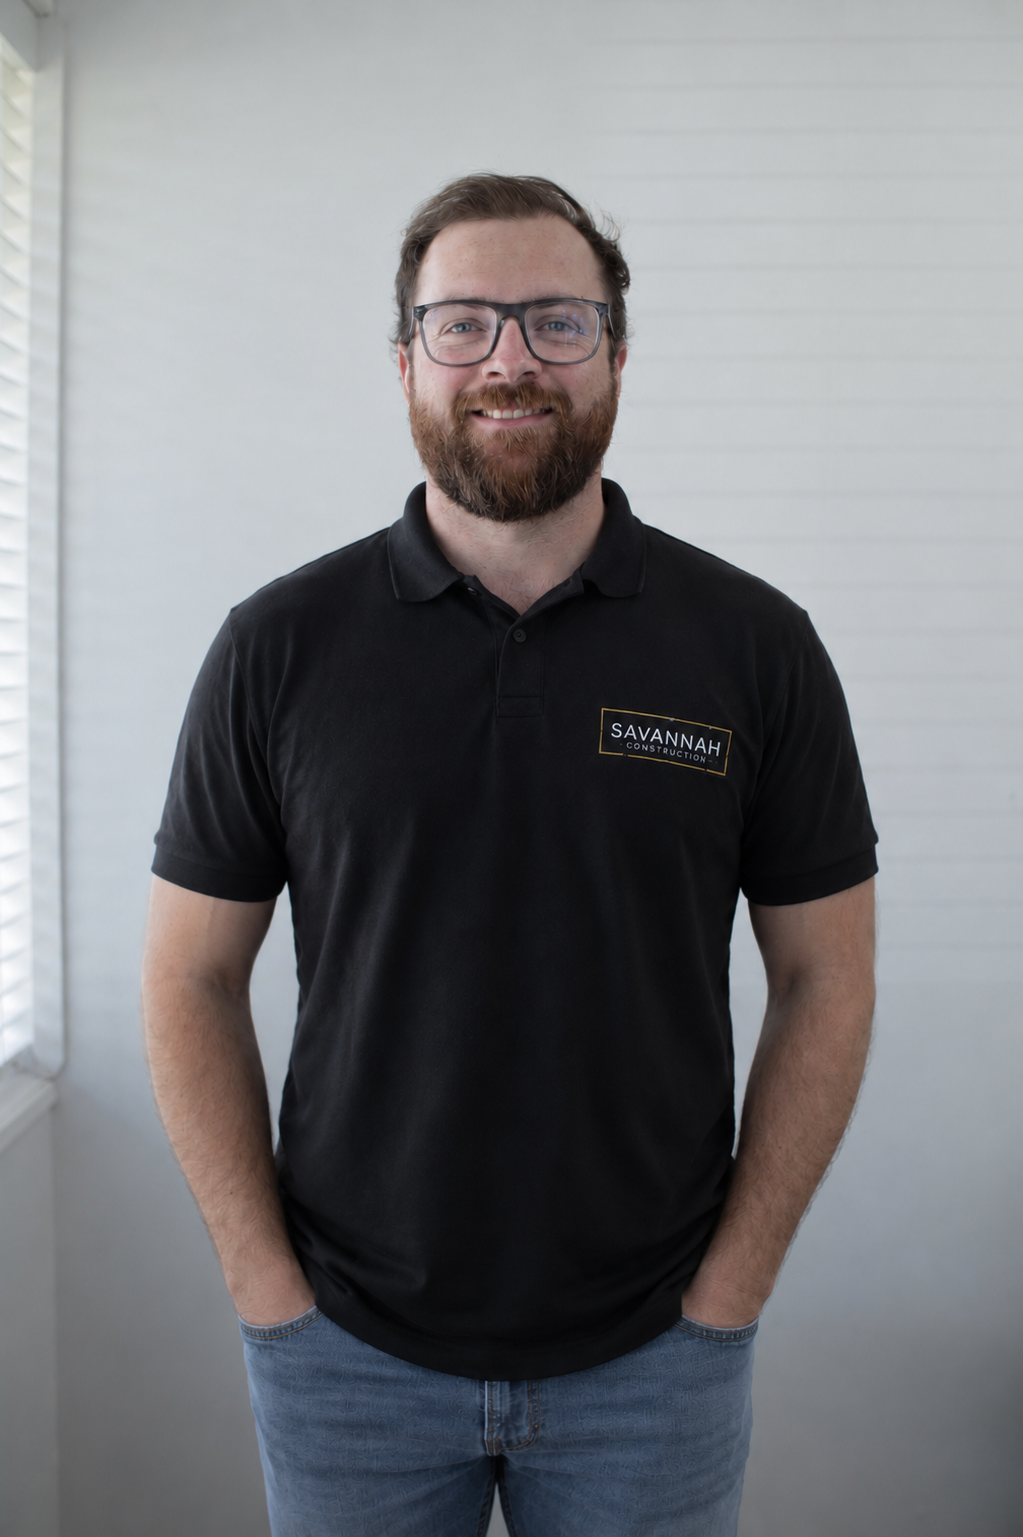
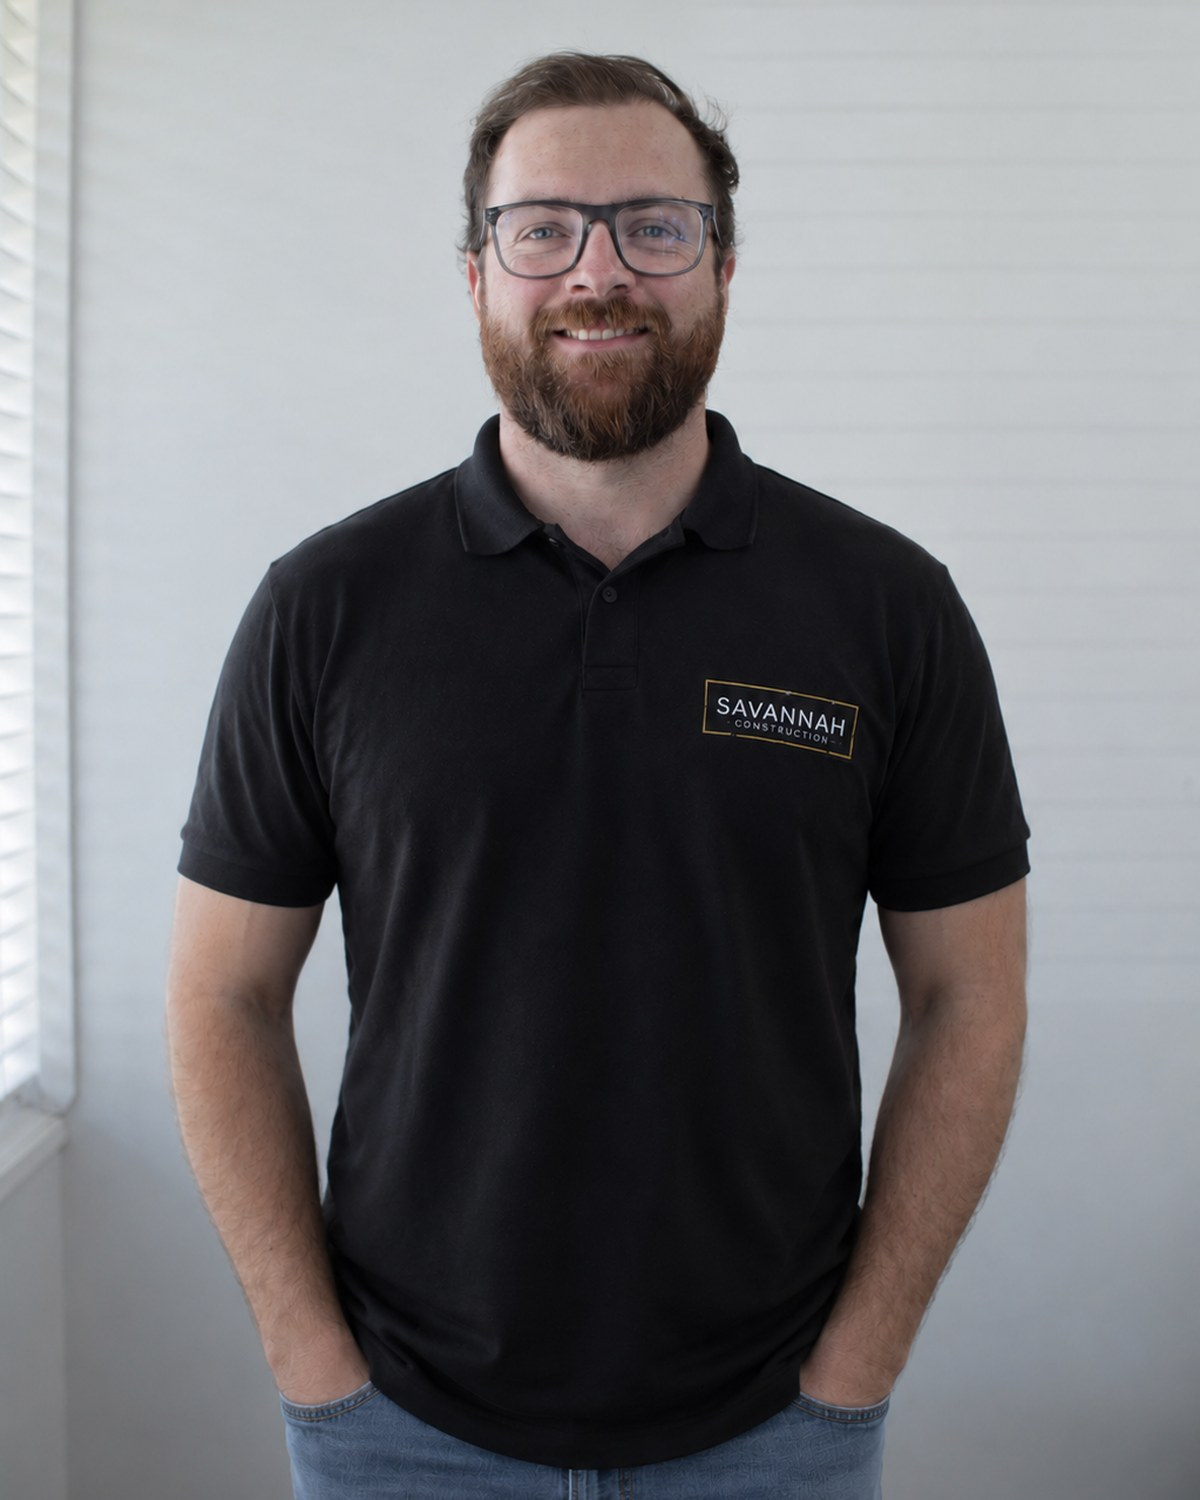
fixed assets (brad hotter)

diff --git a/css/style.css b/css/style.css
@@ -505,20 +505,20 @@ html[data-theme="dark"] .site-header { box-shadow: none; }
 }
 
 
-/* Mode-aware Savannah logo fix: the wordmark changes between black and white while the gold frame stays on-brand. */
+/* Mode-aware Savannah logo fix: one image element only. JS swaps the source, so duplicate logos cannot render. */
 .logo-stack {
   position: relative;
   display: block;
   width: 220px;
   height: 54px;
   flex: 0 0 auto;
+  overflow: hidden;
 }
 .brand .logo-stack {
   justify-self: start;
 }
 .theme-logo {
-  position: absolute;
-  inset: 0;
+  display: block;
   width: 100% !important;
   height: 100% !important;
   max-width: none !important;
@@ -526,20 +526,11 @@ html[data-theme="dark"] .site-header { box-shadow: none; }
   margin: 0 !important;
   object-fit: contain;
   object-position: left center;
-  opacity: 0;
-  transform: translateY(0);
-  transition: opacity .18s ease, transform .22s ease;
-}
-html[data-theme="light"] .theme-logo-light,
-html[data-theme="dark"] .theme-logo-dark {
   opacity: 1;
   transform: translateY(0);
+  transition: opacity .16s ease, transform .18s ease;
 }
-html[data-theme="light"] .theme-logo-dark {
-  opacity: 0;
-  transform: translateY(-4px);
-}
-html[data-theme="dark"] .theme-logo-light {
+.theme-logo.logo-source-swapping {
   opacity: 0;
   transform: translateY(4px);
 }

diff --git a/js/app.js b/js/app.js
@@ -10,10 +10,28 @@ if (navToggle && siteNav) {
 
 const root = document.documentElement;
 const themeToggle = document.querySelector('[data-theme-toggle]');
+
+const updateThemeLogos = (theme, animate = true) => {
+  const logoSrc = theme === 'dark' ? 'logoDark' : 'logoLight';
+  document.querySelectorAll('img[data-logo-light][data-logo-dark]').forEach((logo) => {
+    const nextSrc = logo.dataset[logoSrc];
+    if (!nextSrc || logo.getAttribute('src') === nextSrc) return;
+    if (!animate) {
+      logo.setAttribute('src', nextSrc);
+      return;
+    }
+    logo.classList.add('logo-source-swapping');
+    window.setTimeout(() => {
+      logo.setAttribute('src', nextSrc);
+      logo.classList.remove('logo-source-swapping');
+    }, 90);
+  });
+};
 const setTheme = (theme, persist = true) => {
   const safeTheme = theme === 'dark' ? 'dark' : 'light';
   root.classList.add('theme-switching');
   root.setAttribute('data-theme', safeTheme);
+  updateThemeLogos(safeTheme, persist);
   if (persist) {
     try { localStorage.setItem('savannah-theme', safeTheme); } catch (error) {}
   }

diff --git a/legacy-source/css/style.min.css b/legacy-source/css/style.min.css
@@ -1,13 +1,4 @@
-/*
- *	Resto by GetTemplates.co
- *	URL: https://gettemplates.co
- */
-@font-face {
-  font-family: 'Nasalization';
-  src: url('../Nasalization Rg.otf') format('opentype');
-  font-weight: 400;
-  font-style: normal;
-  font-display: swap; }
+/* Legacy source retained for reference. Missing third-party font reference removed. */
 
 html {
   overflow-x: hidden; }

diff --git a/404.html b/404.html
@@ -23,9 +23,8 @@
 <body class="not-found">
 <header class="site-header">
 <a aria-label="Savannah Construction home" class="brand" href="index.html">
-<span aria-hidden="false" class="logo-stack">
-<img alt="Savannah Construction" class="theme-logo theme-logo-light" src="img/backlogo-light.png"/>
-<img alt="" aria-hidden="true" class="theme-logo theme-logo-dark" src="img/backlogo-dark.png"/>
+<span class="logo-stack">
+<img alt="Savannah Construction" class="theme-logo" src="img/backlogo-light.png" data-logo-light="img/backlogo-light.png" data-logo-dark="img/backlogo-dark.png"/>
 </span>
 </a>
 <button aria-controls="site-nav" aria-expanded="false" class="nav-toggle" type="button"><span class="sr-only">Open menu</span><span aria-hidden="true">☰</span></button>
@@ -60,9 +59,8 @@
 <footer class="site-footer">
 <div class="footer-brand">
 
-<span aria-hidden="false" class="logo-stack">
-<img alt="Savannah Construction" class="theme-logo theme-logo-light" src="img/backlogo-light.png"/>
-<img alt="" aria-hidden="true" class="theme-logo theme-logo-dark" src="img/backlogo-dark.png"/>
+<span class="logo-stack">
+<img alt="Savannah Construction" class="theme-logo" src="img/backlogo-light.png" data-logo-light="img/backlogo-light.png" data-logo-dark="img/backlogo-dark.png"/>
 </span>
 
 <p>Award-winning Waikato construction company delivering premium commercial and residential construction services.</p>

diff --git a/blog.html b/blog.html
@@ -23,9 +23,8 @@
 <body class="blog">
 <header class="site-header">
 <a aria-label="Savannah Construction home" class="brand" href="index.html">
-<span aria-hidden="false" class="logo-stack">
-<img alt="Savannah Construction" class="theme-logo theme-logo-light" src="img/backlogo-light.png"/>
-<img alt="" aria-hidden="true" class="theme-logo theme-logo-dark" src="img/backlogo-dark.png"/>
+<span class="logo-stack">
+<img alt="Savannah Construction" class="theme-logo" src="img/backlogo-light.png" data-logo-light="img/backlogo-light.png" data-logo-dark="img/backlogo-dark.png"/>
 </span>
 </a>
 <button aria-controls="site-nav" aria-expanded="false" class="nav-toggle" type="button"><span class="sr-only">Open menu</span><span aria-hidden="true">☰</span></button>
@@ -142,9 +141,8 @@
 <footer class="site-footer">
 <div class="footer-brand">
 
-<span aria-hidden="false" class="logo-stack">
-<img alt="Savannah Construction" class="theme-logo theme-logo-light" src="img/backlogo-light.png"/>
-<img alt="" aria-hidden="true" class="theme-logo theme-logo-dark" src="img/backlogo-dark.png"/>
+<span class="logo-stack">
+<img alt="Savannah Construction" class="theme-logo" src="img/backlogo-light.png" data-logo-light="img/backlogo-light.png" data-logo-dark="img/backlogo-dark.png"/>
 </span>
 
 <p>Award-winning Waikato construction company delivering premium commercial and residential construction services.</p>

diff --git a/community-support.html b/community-support.html
@@ -23,9 +23,8 @@
 <body class="community">
 <header class="site-header">
 <a aria-label="Savannah Construction home" class="brand" href="index.html">
-<span aria-hidden="false" class="logo-stack">
-<img alt="Savannah Construction" class="theme-logo theme-logo-light" src="img/backlogo-light.png"/>
-<img alt="" aria-hidden="true" class="theme-logo theme-logo-dark" src="img/backlogo-dark.png"/>
+<span class="logo-stack">
+<img alt="Savannah Construction" class="theme-logo" src="img/backlogo-light.png" data-logo-light="img/backlogo-light.png" data-logo-dark="img/backlogo-dark.png"/>
 </span>
 </a>
 <button aria-controls="site-nav" aria-expanded="false" class="nav-toggle" type="button"><span class="sr-only">Open menu</span><span aria-hidden="true">☰</span></button>
@@ -73,9 +72,8 @@
 <footer class="site-footer">
 <div class="footer-brand">
 
-<span aria-hidden="false" class="logo-stack">
-<img alt="Savannah Construction" class="theme-logo theme-logo-light" src="img/backlogo-light.png"/>
-<img alt="" aria-hidden="true" class="theme-logo theme-logo-dark" src="img/backlogo-dark.png"/>
+<span class="logo-stack">
+<img alt="Savannah Construction" class="theme-logo" src="img/backlogo-light.png" data-logo-light="img/backlogo-light.png" data-logo-dark="img/backlogo-dark.png"/>
 </span>
 
 <p>Award-winning Waikato construction company delivering premium commercial and residential construction services.</p>

diff --git a/contact.html b/contact.html
@@ -23,9 +23,8 @@
 <body class="contact">
 <header class="site-header">
 <a aria-label="Savannah Construction home" class="brand" href="index.html">
-<span aria-hidden="false" class="logo-stack">
-<img alt="Savannah Construction" class="theme-logo theme-logo-light" src="img/backlogo-light.png"/>
-<img alt="" aria-hidden="true" class="theme-logo theme-logo-dark" src="img/backlogo-dark.png"/>
+<span class="logo-stack">
+<img alt="Savannah Construction" class="theme-logo" src="img/backlogo-light.png" data-logo-light="img/backlogo-light.png" data-logo-dark="img/backlogo-dark.png"/>
 </span>
 </a>
 <button aria-controls="site-nav" aria-expanded="false" class="nav-toggle" type="button"><span class="sr-only">Open menu</span><span aria-hidden="true">☰</span></button>
@@ -175,9 +174,8 @@
 <footer class="site-footer">
 <div class="footer-brand">
 
-<span aria-hidden="false" class="logo-stack">
-<img alt="Savannah Construction" class="theme-logo theme-logo-light" src="img/backlogo-light.png"/>
-<img alt="" aria-hidden="true" class="theme-logo theme-logo-dark" src="img/backlogo-dark.png"/>
+<span class="logo-stack">
+<img alt="Savannah Construction" class="theme-logo" src="img/backlogo-light.png" data-logo-light="img/backlogo-light.png" data-logo-dark="img/backlogo-dark.png"/>
 </span>
 
 <p>Award-winning Waikato construction company delivering premium commercial and residential construction services.</p>

diff --git a/index.html b/index.html
@@ -23,9 +23,8 @@
 <body class="home">
 <header class="site-header">
 <a aria-label="Savannah Construction home" class="brand" href="index.html">
-<span aria-hidden="false" class="logo-stack">
-<img alt="Savannah Construction" class="theme-logo theme-logo-light" src="img/backlogo-light.png"/>
-<img alt="" aria-hidden="true" class="theme-logo theme-logo-dark" src="img/backlogo-dark.png"/>
+<span class="logo-stack">
+<img alt="Savannah Construction" class="theme-logo" src="img/backlogo-light.png" data-logo-light="img/backlogo-light.png" data-logo-dark="img/backlogo-dark.png"/>
 </span>
 </a>
 <button aria-controls="site-nav" aria-expanded="false" class="nav-toggle" type="button"><span class="sr-only">Open menu</span><span aria-hidden="true">☰</span></button>
@@ -488,9 +487,8 @@
 <footer class="site-footer">
 <div class="footer-brand">
 
-<span aria-hidden="false" class="logo-stack">
-<img alt="Savannah Construction" class="theme-logo theme-logo-light" src="img/backlogo-light.png"/>
-<img alt="" aria-hidden="true" class="theme-logo theme-logo-dark" src="img/backlogo-dark.png"/>
+<span class="logo-stack">
+<img alt="Savannah Construction" class="theme-logo" src="img/backlogo-light.png" data-logo-light="img/backlogo-light.png" data-logo-dark="img/backlogo-dark.png"/>
 </span>
 
 <p>Award-winning Waikato construction company delivering premium commercial and residential construction services.</p>

diff --git a/projects.html b/projects.html
@@ -23,9 +23,8 @@
 <body class="projects">
 <header class="site-header">
 <a aria-label="Savannah Construction home" class="brand" href="index.html">
-<span aria-hidden="false" class="logo-stack">
-<img alt="Savannah Construction" class="theme-logo theme-logo-light" src="img/backlogo-light.png"/>
-<img alt="" aria-hidden="true" class="theme-logo theme-logo-dark" src="img/backlogo-dark.png"/>
+<span class="logo-stack">
+<img alt="Savannah Construction" class="theme-logo" src="img/backlogo-light.png" data-logo-light="img/backlogo-light.png" data-logo-dark="img/backlogo-dark.png"/>
 </span>
 </a>
 <button aria-controls="site-nav" aria-expanded="false" class="nav-toggle" type="button"><span class="sr-only">Open menu</span><span aria-hidden="true">☰</span></button>
@@ -404,9 +403,8 @@
 <footer class="site-footer">
 <div class="footer-brand">
 
-<span aria-hidden="false" class="logo-stack">
-<img alt="Savannah Construction" class="theme-logo theme-logo-light" src="img/backlogo-light.png"/>
-<img alt="" aria-hidden="true" class="theme-logo theme-logo-dark" src="img/backlogo-dark.png"/>
+<span class="logo-stack">
+<img alt="Savannah Construction" class="theme-logo" src="img/backlogo-light.png" data-logo-light="img/backlogo-light.png" data-logo-dark="img/backlogo-dark.png"/>
 </span>
 
 <p>Award-winning Waikato construction company delivering premium commercial and residential construction services.</p>

diff --git a/team.html b/team.html
@@ -23,9 +23,8 @@
 <body class="team">
 <header class="site-header">
 <a aria-label="Savannah Construction home" class="brand" href="index.html">
-<span aria-hidden="false" class="logo-stack">
-<img alt="Savannah Construction" class="theme-logo theme-logo-light" src="img/backlogo-light.png"/>
-<img alt="" aria-hidden="true" class="theme-logo theme-logo-dark" src="img/backlogo-dark.png"/>
+<span class="logo-stack">
+<img alt="Savannah Construction" class="theme-logo" src="img/backlogo-light.png" data-logo-light="img/backlogo-light.png" data-logo-dark="img/backlogo-dark.png"/>
 </span>
 </a>
 <button aria-controls="site-nav" aria-expanded="false" class="nav-toggle" type="button"><span class="sr-only">Open menu</span><span aria-hidden="true">☰</span></button>
@@ -160,9 +159,8 @@
 <footer class="site-footer">
 <div class="footer-brand">
 
-<span aria-hidden="false" class="logo-stack">
-<img alt="Savannah Construction" class="theme-logo theme-logo-light" src="img/backlogo-light.png"/>
-<img alt="" aria-hidden="true" class="theme-logo theme-logo-dark" src="img/backlogo-dark.png"/>
+<span class="logo-stack">
+<img alt="Savannah Construction" class="theme-logo" src="img/backlogo-light.png" data-logo-light="img/backlogo-light.png" data-logo-dark="img/backlogo-dark.png"/>
 </span>
 
 <p>Award-winning Waikato construction company delivering premium commercial and residential construction services.</p>

diff --git a/docs/PACKAGE-CONTENTS-AUDIT.md b/docs/PACKAGE-CONTENTS-AUDIT.md
@@ -1,0 +1,18 @@
+# Package contents audit
+
+This corrected package is the full website package, not a logo-only patch.
+
+Included:
+
+- root HTML pages
+- `css/`
+- `js/`
+- `img/` original path structure used by the website code
+- `assets/` compatibility folder
+- `assets/img/` mirror of `img/`
+- updated Brad image at `img/team/bradley-bw.jpg`
+- updated Brad image mirror at `assets/img/team/bradley-laird.jpg`
+- theme logo files at `img/backlogo-light.png` and `img/backlogo-dark.png`
+- `.nojekyll`
+
+Do not delete the `img/` folder. The website code currently references `img/...` paths.

diff --git a/docs/LOGO-SINGLE-SOURCE-FIX.md b/docs/LOGO-SINGLE-SOURCE-FIX.md
@@ -1,0 +1,14 @@
+# Logo single-source fix
+
+Problem: the previous build rendered 2 logo image elements for each logo position. They were intended to overlap, but this created visible duplicate logos in some views.
+
+Fix applied:
+
+- Each logo position now uses 1 `<img>` only.
+- The image source is swapped by `js/app.js` when the light/dark theme changes.
+- The required files are:
+  - `img/backlogo-light.png` for light mode
+  - `img/backlogo-dark.png` for dark mode
+- Header and footer logos use the same mechanism.
+
+Do not add both logos manually into the HTML. Use only the single `<img class="theme-logo">` structure.